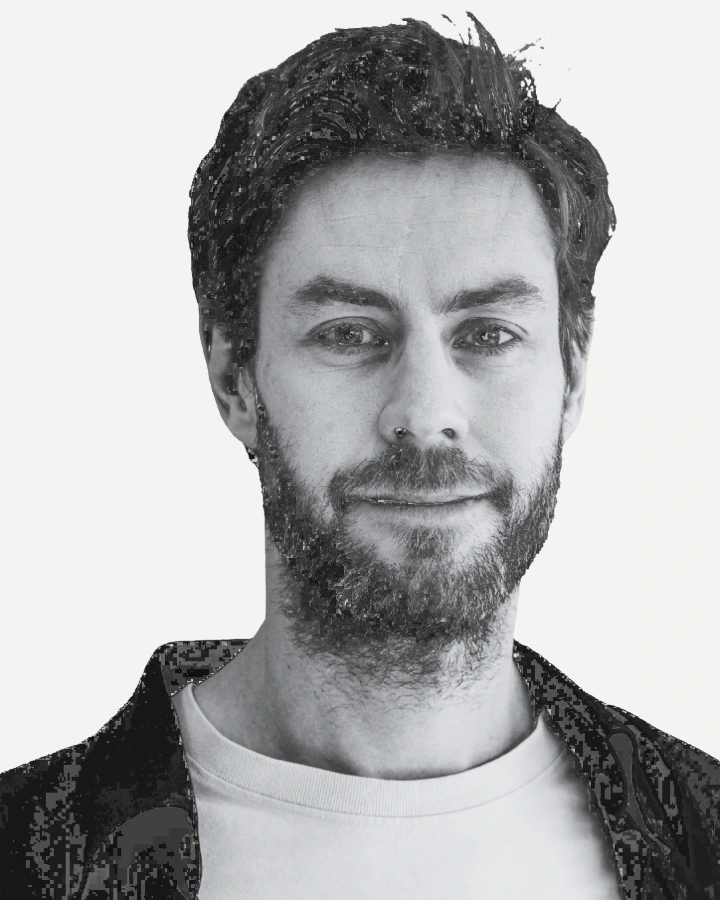
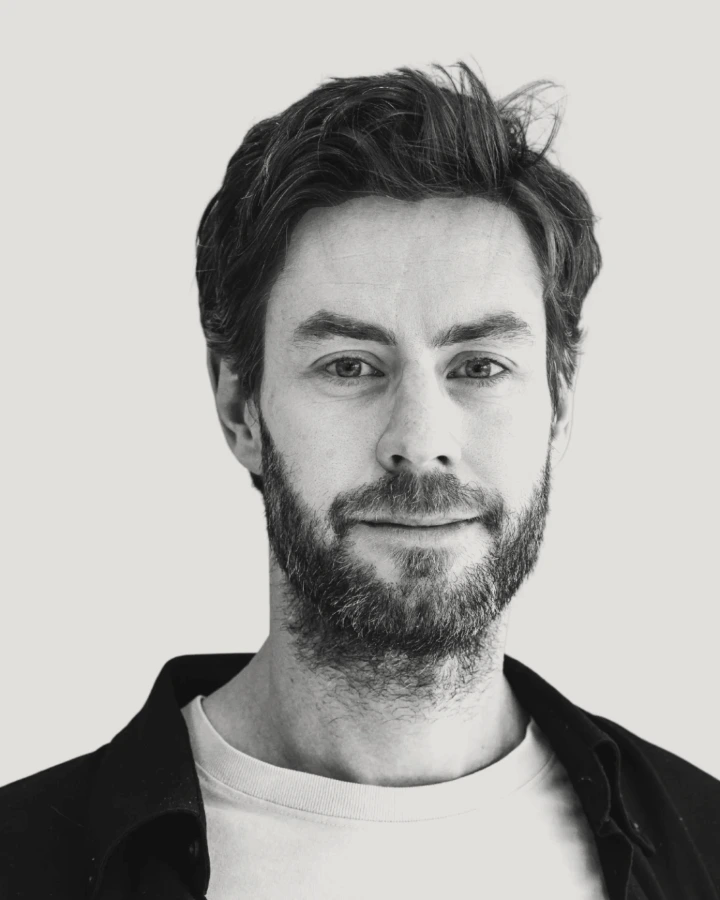
Nieuwe portretfoto, en het kader eromheen weg
De nieuwe bronfoto staat op een vlakke lichte achtergrond in plaats van
op oranje, dus make-portrait.mjs keyt niet meer op verzadiging. Het
meet de achtergrond uit de vier hoeken en tilt die naar de kleur die de
pagina op die plek werkelijk heeft.

Dat laatste is nieuw en nodig: de vignet van de scene maakt de kolom
donkerder en de contrast/sepia-filter op .portrait img tilt het wit
weer op. Samen schelen ze zo'n twintig punten. Op --bg compositeren
gaf een lichter rechthoekje om zijn hoofd; op de gemeten waarde valt
het weg. Nagemeten op 1440 breed: foto 232, pagina eromheen 231-232.

Claude-Session: https://claude.ai/code/session_01KV8AeoVpBe1MSBKLeT1q61

Changed region(s): [[0.0, 0.0, 1.0, 1.0], [0.9778, 0.9644, 1.0, 1.0], [0.3056, 0.8089, 0.3667, 0.84]]

diff --git a/README.md b/README.md
@@ -425,16 +425,22 @@ preset, which skips nothing but makes the backdrop buffer irrelevant.
 
 ## The portrait
 
-`public/img/kevin-roovers.webp` is generated from `legacy/portret.png` by
-`scripts/make-portrait.mjs`. The source is a greyscale subject on a saturated
-orange backdrop that clashes with this palette, so the script keys the backdrop
-out and composites the subject onto the page's own off-white.
+`public/img/kevin-roovers.webp` is generated from `legacy/portret-2026.webp` by
+`scripts/make-portrait.mjs`. The source is a greyscale subject on a flat light
+backdrop, and that backdrop is never exactly this page's off-white. The
+difference shows: a portrait sitting in a column of `#F4F3F0` with its own grey
+rectangle around it reads as a pasted-in photo.
 
-Two things mark a pixel as background and both have to be read: it is saturated
-orange, **and** the source PNG already carries an alpha channel. Keying on
-colour alone turns every transparent pixel black, because an RGB of 0,0,0 has no
-saturation and looks like ink. That bug is why the first two attempts came out
-with a black box around his head.
+So the script measures the backdrop from the four corners rather than assuming
+it, then maps that value onto the page background and carries every tone below
+it along. The subject is converted to pure grey first — a colour cast in the
+source fights the warm off-white — and the result is composited onto the
+background instead of shipping an alpha channel, which sidesteps every encoder
+that quietly flattens transparency to black.
+
+The crop is built around the subject, not around the canvas: the script finds
+the ink, frames 4:5 around it with a little air above the hair, and resizes to
+720x900.
 
 ```bash
 npm i -D playwright && npx playwright install chromium
